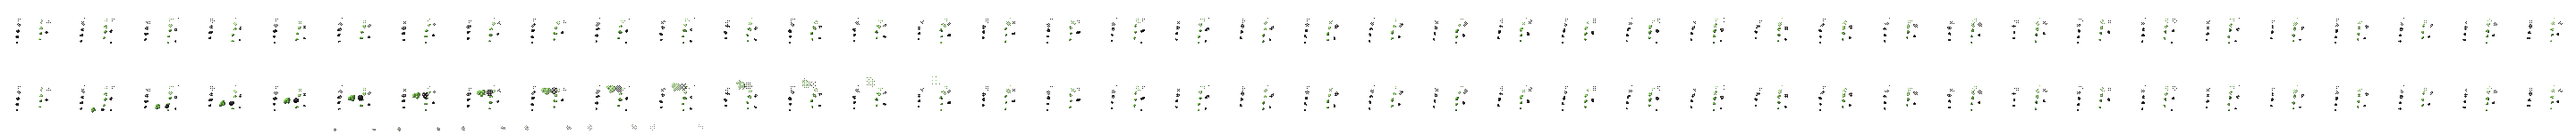
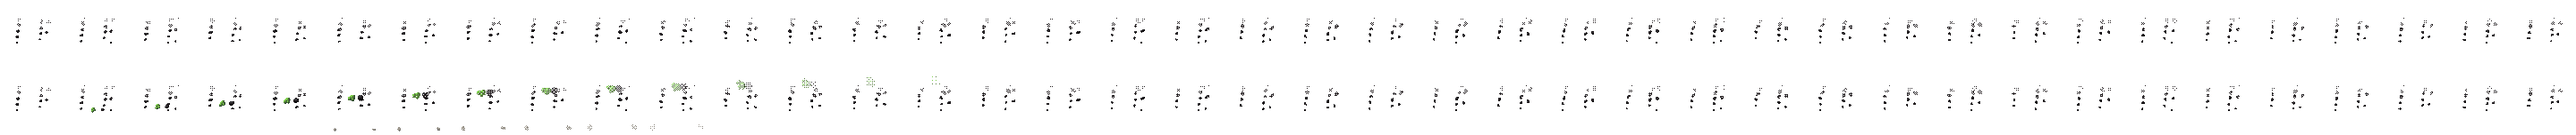
LANE DONE: lane/a-chest-glow-139: the chest's smoke goes dark, so its green at rest is its keyholes' and hasps' alone Coordinator review (art sign-off delegated): tower-art.mjs LEAKS' one green wisp off the seam beside the gold lock is black like the others; the bump's peak puff keeps its green with

diff --git a/.claude/coordination/agents/art-director.md b/.claude/coordination/agents/art-director.md
@@ -3763,5 +3763,6 @@ age, and a row named without that clip (the smoke) holds its loop unbumped. The 
 its "turn" frame. Tests: TL-CHEST (+11 mutants), HM-CLIENT/HM-DATA flash checks (+6 js mutants). Lessons: (8) an atlas dedupes identical
 frames, so a "draws frame X, not Y" check can pass by coincidence when X and Y are pixel twins: pick the instant where they must differ (the
 flash's last frame is idle frame 5; the "held loop" check reads frame 20); (9) a one-shot over a looping layer must also hold its sibling
-layers' bumps, or the smoke puffs a jolt the chest never makes. Open: one of the three smoke leaks is green and rises from the seam beside
-the gold lock's hasp (kept, as briefed); if Tyler wants every green at the locks, that leak turns black or moves onto a hasp.
+layers' bumps, or the smoke puffs a jolt the chest never makes. Coordinator review (art sign-off delegated): the one green leak off the
+seam went dark like the others, so at rest the chest's green is its keyholes' and hasps' alone; TL-CHEST holds the smoke's loop to no green
+(+1 mutant). The bump's peak puff keeps its green with the lid's light.
